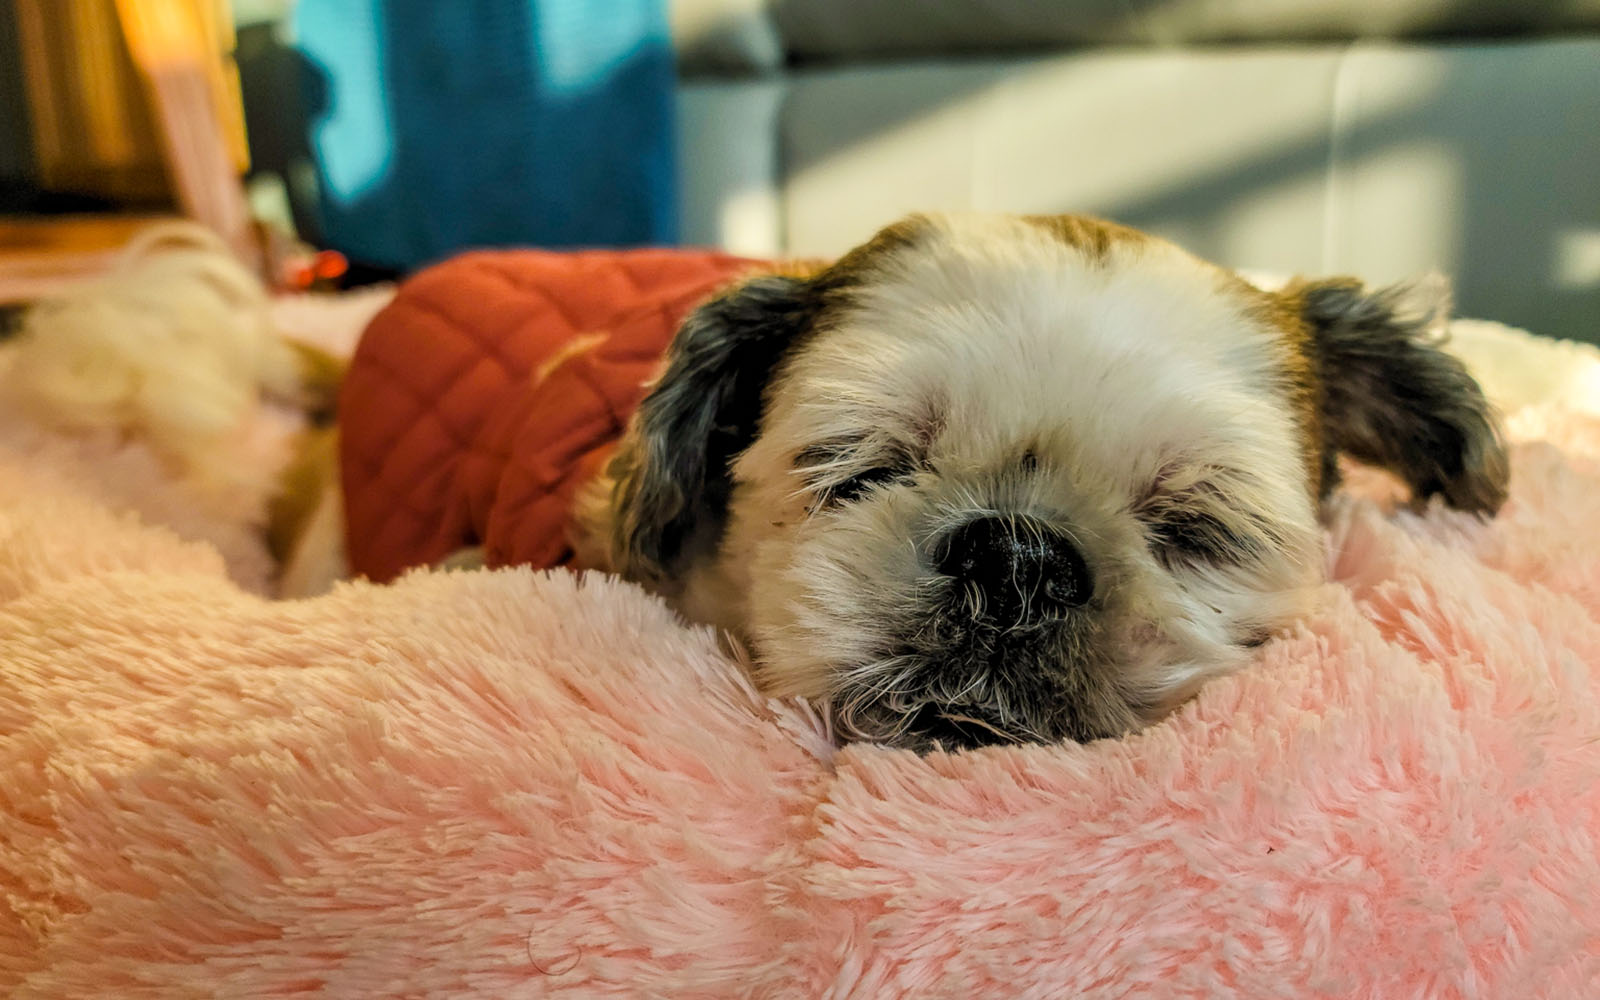
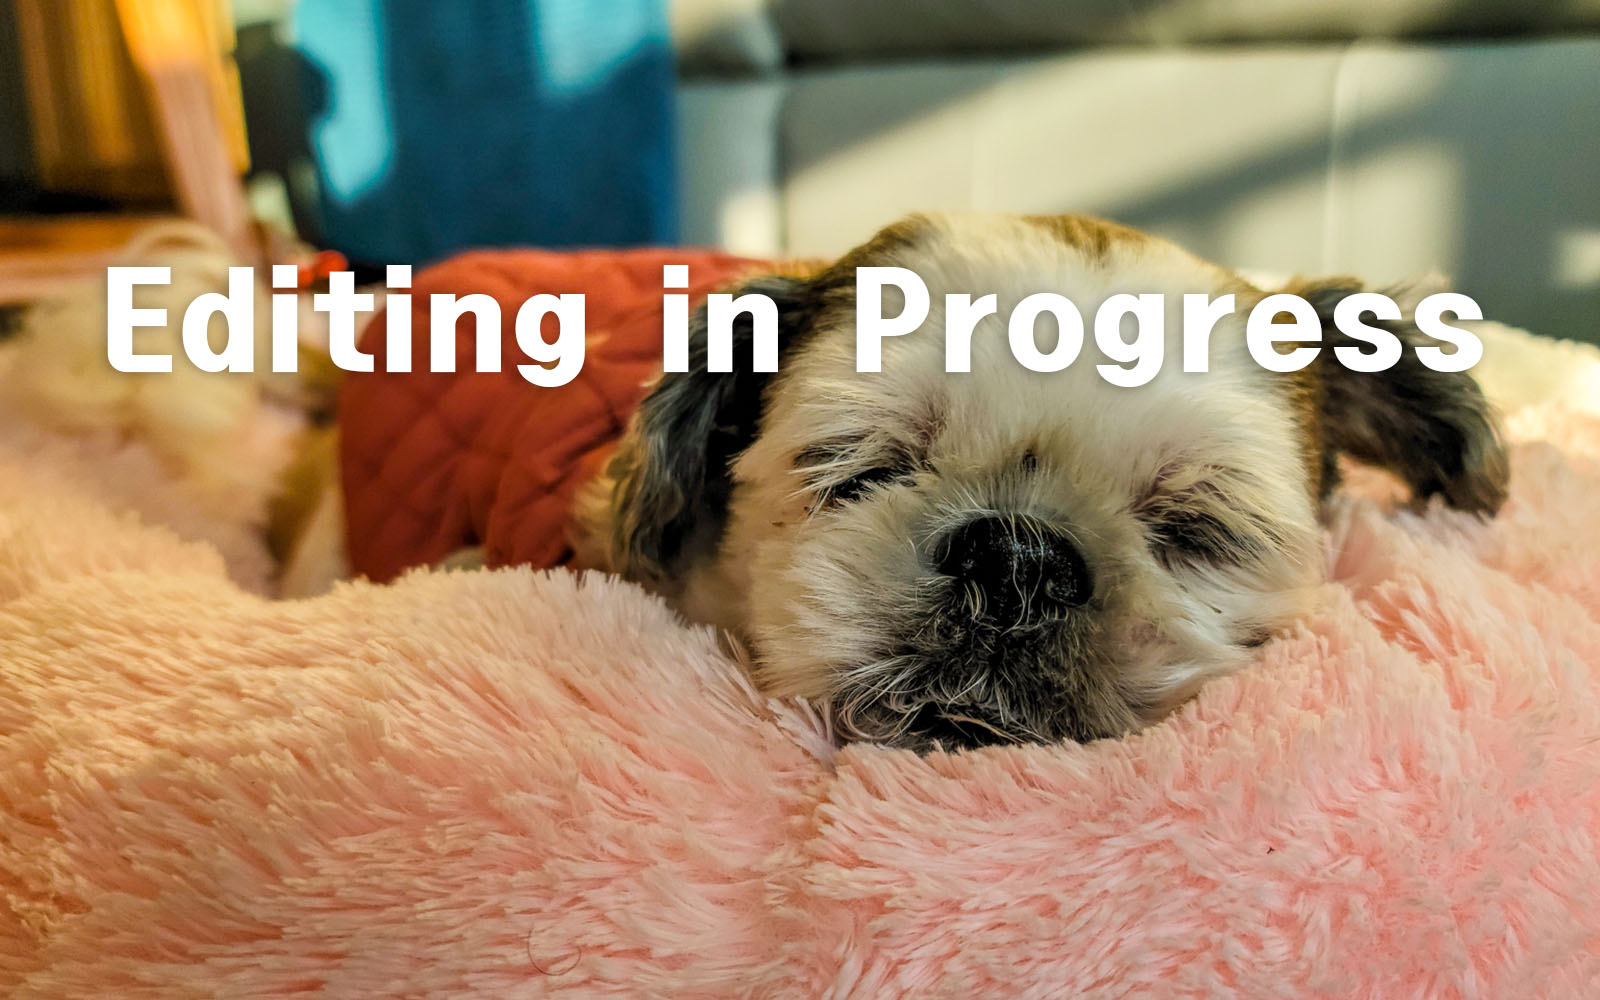
Update contents

Changed region(s): [[0.5312, 0.248, 0.9375, 0.403], [0.0625, 0.248, 0.375, 0.403], [0.4062, 0.248, 0.5, 0.372]]

diff --git a/_posts/projects/2022-04-10-step.md b/_posts/projects/2022-04-10-step.md
@@ -20,10 +20,13 @@ gallery:
     url: /assets/images/elic/1.jpg
 
 ---
+## Demo
+
+<iframe width="640" height="360" src="https://www.youtube-nocookie.com/embed/ZJ1xqogHk9w?controls=0&amp;showinfo=0" frameborder="0" allowfullscreen></iframe>
 
 ## Introduction
 
-Intro to class, what I wanted to gain, what was the project about (possibly the presentation), what was I hoping for, how did it end.
+Intro to class, what I wanted to gain, what was the project about (possibly the intro presentation), what was I hoping for, how did it end.
 
 ## Design
 
@@ -31,13 +34,13 @@ Intro to class, what I wanted to gain, what was the project about (possibly the 
 2. Idea Synthesis and Co-designing on sprint 2, about 2 interviews.
 3. Ideating Session with the whole class (include the picture)
 
-4. research on buttons, prototyping multiple to check the feasibility. Interview with the prototypes (2 interviews)
+4. research on buttons, multiple prototypes to check the feasibility. Interview with the physical prototypes (2 interviews)
 
 ## iOS App Development
 
 1. Explain what was the purpose of the app dev, why I joined the app team.
 2. Explain that I started with the news reader development while other team did routing. 
-3. Defining key features of the app and become the integration person for the team. Explain the experience I had by trying to integrate all different people's work to a single work - making map view and also using API to create another news reader
+3. Defining key features of the app and process of becoming the integration person for the team. Explain the experience I had by trying to integrate all different people's work to a single work - making map view and also using API to create another news reader
 4. Finishing the first version of the app and demoing - the step video me showing the gesture control, the video we took before the demo to explain our work (rishita)
 5. Added music control
 6. User interview, getting the real feedback and start working on that. (add gesture speech, make it more voice over like)
@@ -45,6 +48,7 @@ Intro to class, what I wanted to gain, what was the project about (possibly the 
 8. Re-struturing and integrating the app again so that it is actually hands-free. Add videos I took before the demo day for explanation
 9. demo day - videos that sam posted in general, using the app with 3~4 different devices.
 10. Changing the interaction more user friendly (more direct)
+11. Last minute bug fixes and changes.
 
 ## Reflection
 

diff --git a/_pages/home.md b/_pages/home.md
@@ -10,7 +10,7 @@ header:
   overlay_filter: linear-gradient(rgba(255, 0, 0, 0.5), rgba(0, 255, 255, 0.5))
   overlay_image: /assets/images/banner1.jpg
 excerpt: >
-  I'm a junior CS student at Olin College of Engineering. My major interest is in software engineering and its applications to creative game development
+  I'm a junior CS student at Olin College of Engineering. My major interest is in software engineering and its applications to accessibility/game development
 feature_row:
   - image_path: /assets/images/project_elic2.jpg
     alt: "placeholder image 2"
@@ -106,8 +106,17 @@ feature_row12:
   - image_path: /assets/images/sunny1.jpg
     alt: "placeholder image 2"
     title: "Social Technology Enterprise with Purpose (STEP)"
-    excerpt: 'Currently Adding More Contents'
+    excerpt: 'iOS App Development: An accessible iOS app for BVI community to use the phone hands-free with external devices such as buttons, gesture ring, and quiet speech <br>
+    (Editing in Progress)'
     url: "/project/project_step/"
+    btn_label: "Read More"
+    btn_class: "btn--primary"
+feature_row13:
+  - image_path: assets/images/multi-tanki.jpg
+    alt: "placeholder image 1"
+    title: "Multi-Tanki"
+    excerpt: "C Game Project: Simple multiplayer game created with C and SDL"
+    url: "https://youtu.be/H5mSYYUEZL0"
     btn_label: "Read More"
     btn_class: "btn--primary"
 feature_row55:
@@ -176,6 +185,14 @@ feature_row55:
 
 {% include feature_row id="feature_row3" type="left" %}
 
+{% include feature_row id="feature_row13" type="left" %}
+
+{% include feature_row id="feature_row12" type="left" %}
+
+{% include feature_row id="feature_row4" type="left" %}
+
+{% include feature_row id="feature_row7" type="left" %}
+
 {% include feature_row id="feature_row5" type="left" %}
 
 {% include feature_row id="feature_row6" type="left" %}
@@ -184,13 +201,11 @@ feature_row55:
 
 {% include feature_row id="feature_row10" type="left" %}
 
-{% include feature_row id="feature_row7" type="left" %}
-
 {% include feature_row id="feature_row8" type="left" %}
 
-{% include feature_row id="feature_row4" type="left" %}
 
-{% include feature_row id="feature_row12" type="left" %}
+
+
 
 
 # Mini Project

diff --git a/_posts/projects/2022-05-15-multi-tanki.md b/_posts/projects/2022-05-15-multi-tanki.md
@@ -1,0 +1,11 @@
+---
+title: "Multi Tanki"
+categories:
+  - Project
+tags:
+  - C
+  - Game Project
+link: https://youtu.be/H5mSYYUEZL0
+---
+
+Link to the project
